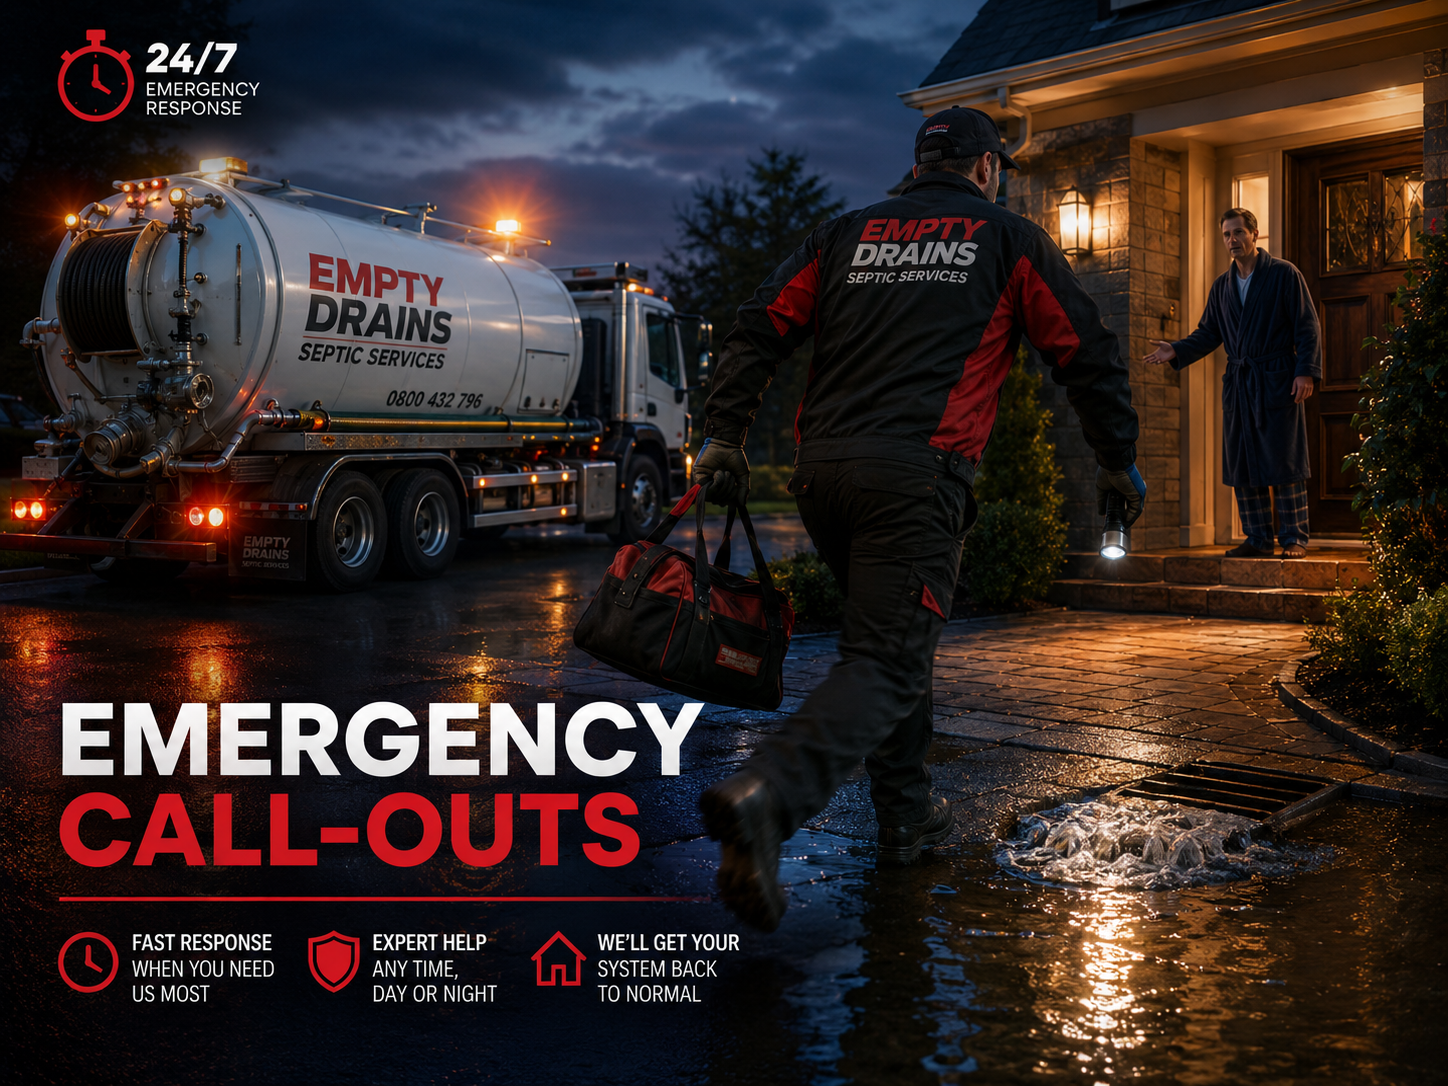
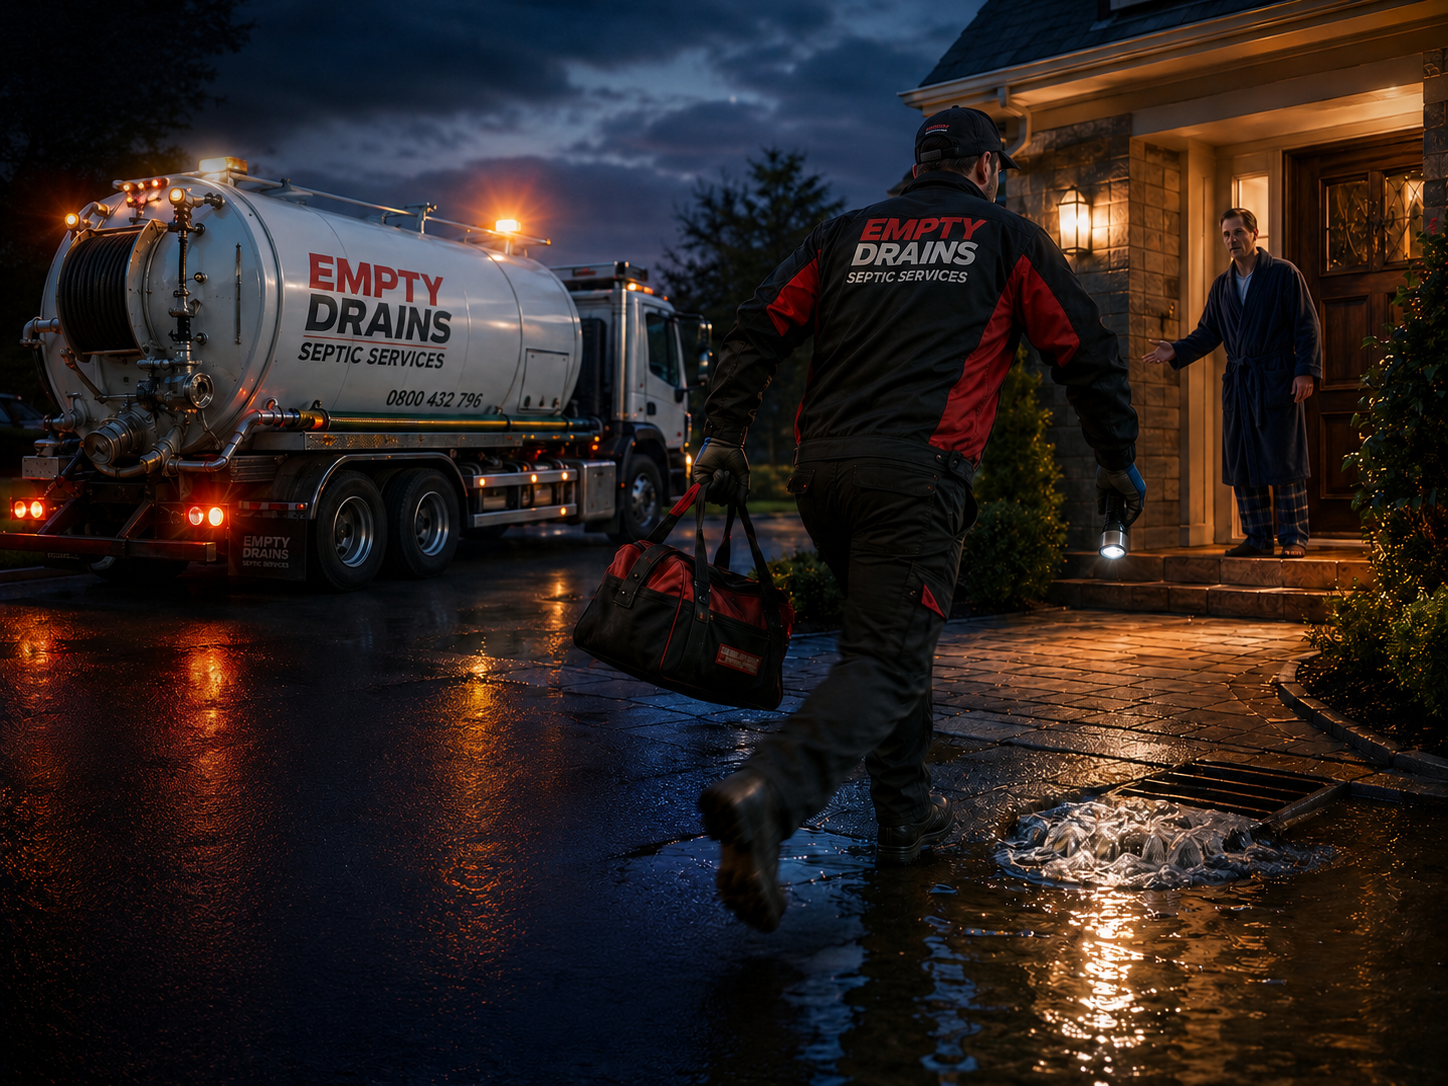
Update most sections

diff --git a/index.html b/index.html
@@ -82,10 +82,10 @@
         <a href="services.html">Learn More <svg aria-hidden="true" viewBox="0 0 24 24"><path d="M5 12h14M13 5l7 7-7 7"/></svg></a>
       </article>
       <article class="service-card">
-        <img src="assets/images/service-2.jpg" alt="Emergency septic truck call-out at night">
+        <img src="assets/images/service-2.jpg" alt="Same-day septic service call-out">
         <div class="service-icon"><svg aria-hidden="true" viewBox="0 0 24 24"><path d="M22 16.9v3a2 2 0 0 1-2.2 2 19.8 19.8 0 0 1-8.6-3.1 19.5 19.5 0 0 1-6-6A19.8 19.8 0 0 1 2.1 4.2 2 2 0 0 1 4.1 2h3a2 2 0 0 1 2 1.7c.1.9.3 1.8.6 2.6a2 2 0 0 1-.5 2.1L8 9.6a16 16 0 0 0 6.4 6.4l1.2-1.2a2 2 0 0 1 2.1-.5c.8.3 1.7.5 2.6.6A2 2 0 0 1 22 16.9Z"/></svg></div>
-        <h3>Emergency Call-Outs</h3>
-        <p>We're available for emergency call-outs to resolve urgent issues quickly.</p>
+        <h3>Same day services</h3>
+        <p>Need help quickly? We offer same-day service where possible to help resolve septic issues fast</p>
         <a href="services.html">Learn More <svg aria-hidden="true" viewBox="0 0 24 24"><path d="M5 12h14M13 5l7 7-7 7"/></svg></a>
       </article>
       <article class="service-card">
@@ -98,7 +98,7 @@
       <article class="service-card">
         <img src="assets/images/service-4.jpg" alt="General septic services truck">
         <div class="service-icon"><svg aria-hidden="true" viewBox="0 0 24 24"><circle cx="11" cy="11" r="7"/><path d="m20 20-3.5-3.5"/></svg></div>
-        <h3>General Septic Services</h3>
+        <h3>Septic Services</h3>
         <p>We help identify septic concerns early and provide honest advice on the best next step.</p>
         <a href="services.html">Learn More <svg aria-hidden="true" viewBox="0 0 24 24"><path d="M5 12h14M13 5l7 7-7 7"/></svg></a>
       </article>